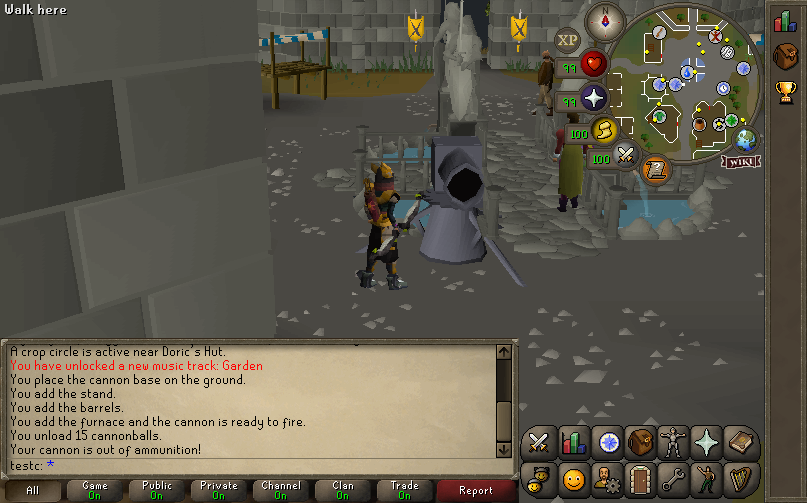
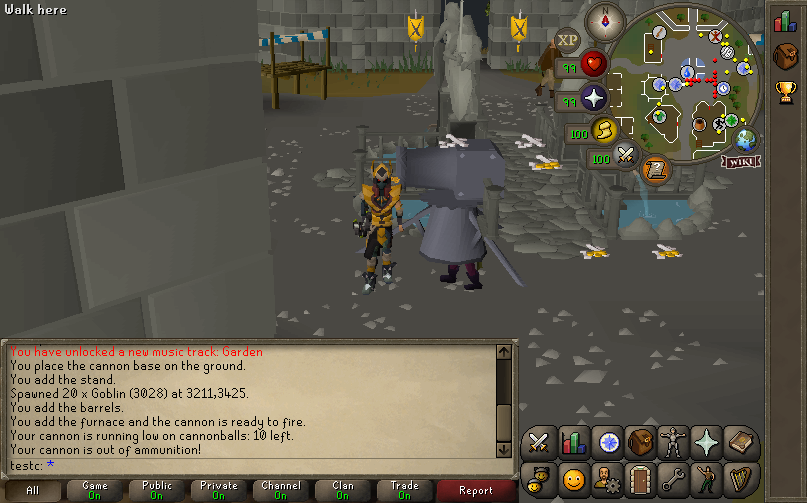
cannon: the drive could not produce the edge, so the plugin never spoke
`grep -rh PLUGIN_NOTIFY runs/` across all 307 captures returns no line from
nxt-cannon-ammo. The reading offered for that was that the lane pre-empts it:
cannon.rs2's tick timer says "Your cannon is out of ammunition!" the tick after
the count reaches zero, inside the builtin's two-tick grace, so nxt_cannon_chat
cancels its duplicate.

That is true, and it is the REPAIR rather than the defect. Two lines for one
event is the bug that grace exists to fix, and on an OSRS239 lane the correct
output at empty is silence. The plugin needed no change and got none.

What kept it silent was the DRIVE, twice over:

  * Setting 249 -- varbit 14176, the amount -- has no default, on purpose: the
    row exists so the number is the user's. The job rows wrote 14175 and 14177
    and stopped, so `threshold > 0` was false for ever. PLUGIN_PORTS.md had
    been saying this drive writes 14175=1, 14176=10, 14177=1 all along; the
    shipped rows had two of the three.

  * A drop is not a crossing. The only ammo change was loc op 3 "Empty", which
    returns all fifteen balls in ONE tick. The low notice fires on
    `previous > threshold && ammo <= threshold` and the empty branch wins at
    `ammo == 0`, so a one-tick 15 -> 0 cannot be a crossing whatever the
    threshold is.

So the count has to walk. `::spawn goblin 20` puts twenty targets inside the
cannon's eight-tile range and it fires one ball a tick through
~cannon_fire_once: 15 -> 0 over fifteen server ticks, 4000 frames for that plus
[…]

diff --git a/src/plugin/test/nxt_activities_test.c b/src/plugin/test/nxt_activities_test.c
@@ -1641,6 +1641,37 @@ main(void)
         PluginHost_ServerTick(host, ++tick);
         CHECK(g_engine.notifies == 5, "a lane known to announce it never arms again");
 
+        /*
+         * ---- AND THE LOW NOTICE STILL SPEAKS ON THAT SAME LANE ---------
+         *
+         * The latch above is narrow on purpose, and this is the check that
+         * says so. A lane announcing EMPTIES has said nothing whatever about
+         * the amount the user called low: no content anywhere sends a
+         * low-on-ammo line, so setting 249 is this builtin's alone on every
+         * lane, including the ones that pre-empt 250.
+         *
+         * Without this, a plausible reading of "the plugin is silent on every
+         * lane" is that the lane's own message pre-empts everything it has,
+         * and the obvious repair is to stand the whole builtin down once
+         * `content_announces` latches. That would leave setting 249 dead on
+         * every lane that implements a cannon -- which is every lane the
+         * builtin runs on -- while looking correctly quiet in every capture.
+         * It pre-empts ONE of the two messages.
+         *
+         * MUTATION: return early from nxt_cannon_sample when
+         *   `state->content_announces` is set. Red here, green on every other
+         *   cannon check in this file -- which is exactly how the gap hid.
+         */
+        g_engine.varbit[fake_id("varbit", NXT_VARBIT_CANNON_LOW_AMOUNT)] = 10;
+        g_engine.varp[fake_id("varp", NXT_VARP_CANNON_AMMO)] = 30;
+        PluginHost_ServerTick(host, ++tick);
+        g_engine.varp[fake_id("varp", NXT_VARP_CANNON_AMMO)] = 9;
+        PluginHost_ServerTick(host, ++tick);
+        CHECK(g_engine.notifies == 6,
+            "a lane that announces empties does not silence the low notice");
+        CHECK(strstr(g_engine.last_notify, "9 left") != NULL,
+            "and the count it names is the one that crossed the line");
+
         /* The sailing content spells the same statement with a full stop.
          * Re-registered so the latch above is not what is under test. */
         PluginHost_SetEnabled(host, p_cannon, false);
@@ -1653,7 +1684,7 @@ main(void)
         PluginHost_ServerTick(host, ++tick);
         PluginHost_ServerTick(host, ++tick);
         PluginHost_ServerTick(host, ++tick);
-        CHECK(g_engine.notifies == 5,
+        CHECK(g_engine.notifies == 6,
             "the sailing content's full stop is the same statement");
 
         /* Restore the fixture for the cost measurement below: no cannon, and
@@ -1667,7 +1698,7 @@ main(void)
         PluginHost_ServerTick(host, ++tick);
         PluginHost_ServerTick(host, ++tick);
         PluginHost_ServerTick(host, ++tick);
-        CHECK(g_engine.notifies == 5, "native null coordinate still has no ammo events");
+        CHECK(g_engine.notifies == 6, "native null coordinate still has no ammo events");
 
         /*
          * What a quiet tick COSTS.

diff --git a/tools/porcelain_gate/shots/gen_matrix.py b/tools/porcelain_gate/shots/gen_matrix.py
@@ -72,7 +72,22 @@ PLUGINS = [
     ("entity-highlighter",  "highlighter",    "'TORIRS_SIM_PLUGIN_CONFIG=60,entity-highlighter,tags,5037,6708,2880,2899,3106,3108'"),
     ("nxt-highlight",       "nxthl",          "TORIRS_SIM_MOVE_AT=600,{npc} TORIRS_SIM_HOVER={npc} TORIRS_HIGHLIGHT_DEBUG=1"),
     ("nxt-bird-nest",       "birdnest",       "TORIRS_SIM_VARBIT=450,13087,0 'TORIRS_SIM_CMD=600,dropobj bird_nest_egg_red 1'"),
-    ("nxt-cannon-ammo",     "cannon",         "'TORIRS_SIM_VARBIT=450,14175,1;452,14177,1' 'TORIRS_SIM_CMD=500,cannon' TORIRS_SIM_OPLOC=1400,3,3210,3424,6 TORIRS_MAX_FRAMES=1500"),
+    # The cannon drive has to be a WALK down the ammo count, not a drop to
+    # zero, and it has to write all THREE settings rows.
+    #
+    # It used to be 14175 + 14177, `::cannon`, and loc op 3 "Empty" -- which
+    # cannot produce one line from this plugin, and did not, in any of the 307
+    # captures.  The EMPTY notice is suppressed on purpose on an OSRS239 lane
+    # (cannon.rs2 says "Your cannon is out of ammunition!" itself, and
+    # nxt_cannon_chat drops the builtin's duplicate), so the only message left
+    # is the LOW one -- and 249, the amount (varbit 14176), has no default and
+    # was never written, while a one-tick 15 -> 0 unload has no intermediate
+    # value for a threshold to be crossed at even if it had been.
+    #
+    # Twenty goblins give the cannon a target every tick, so the count walks
+    # 15, 14, ... 0 and the crossing at 10 is real.  4000 frames covers the
+    # 4-tick assembly and fifteen fire ticks.
+    ("nxt-cannon-ammo",     "cannon",         "'TORIRS_SIM_VARBIT=450,14175,1;451,14176,10;452,14177,1' 'TORIRS_SIM_CMD=500,cannon;560,spawn goblin 20' TORIRS_MAX_FRAMES=4000"),
 ]
 
 TRACE = "TORIRS_TRACE_NATIVE_UI=1 TORIRS_DUMP_ROLES=1 TORIRS_DUMP_BOUNDS=all"

diff --git a/tools/porcelain_gate/shots/README.md b/tools/porcelain_gate/shots/README.md
@@ -398,3 +398,60 @@ coins at one gp each and two bones are worth.
 The 100M is not a rounding difference. The store held `cost * qty` in a field
 the plugin API documents as the price of ONE, so the quantity went in twice:
 10,000 * (1 * 10,000) = 100,000,000. The zoomed pair shows both halves at once.
+
+## `cannon-*` — a drive that could not produce the event it was named after
+
+Four numbers said this plugin was fine and one `grep` said it had never spoken.
+`nxt-cannon-ammo` ran on every lane, reported `enabled=1 running=1 error=0` in
+every capture, and raised no finding anywhere — and `grep -rh PLUGIN_NOTIFY
+runs/` across all 307 runs returned not one line from it.
+
+The reading that first fit was that the lane pre-empts it: `cannon.rs2`'s tick
+timer says "Your cannon is out of ammunition!" the tick after the count reaches
+zero, the builtin holds its own empty notice for two server ticks, and
+`nxt_cannon_chat` drops the duplicate when the lane speaks. All of that is true
+and **none of it is the defect** — it is the repair for a photographed
+two-lines-for-one-event bug, and on an OSRS239 lane the correct output at empty
+is silence. Believing it was the defect is how you end up "fixing" a plugin
+that is already right.
+
+The defect was in the **drive**, and it was two independent things at once:
+
+- **The threshold row was never written.** Setting 249 (`varbit 14176`,
+  `cannon_low_amount`) has no default on purpose — the row exists so the number
+  is the user's — so `threshold > 0` is false until something writes it. The
+  job rows wrote 14175 and 14177 and stopped.
+  `docs/plugin-engine/PLUGIN_PORTS.md` had been saying the drive sets
+  `14175=1, 14176=10, 14177=1` the whole time; the shipped rows had two of the
+  three. A drive and the prose about it disagreeing is worth a grep.
+- **A drop is not a crossing.** The only ammo change was loc op 3 "Empty",
+  which returns all fifteen balls in one tick. The builtin's low notice fires on
+  `previous > threshold && ammo <= threshold`, and the empty branch wins at
+  `ammo == 0`, so a one-tick 15 → 0 cannot be a crossing whatever the threshold
+  is. The count has to WALK.
+
+`::spawn goblin 20` makes it walk: twenty targets inside the cannon's eight-tile
+range, one ball a tick through `~cannon_fire_once`, 15 → 0 over fifteen server
+ticks. The chat pane now carries both halves at once —
+
+```
+Your cannon is running low on cannonballs: 10 left.   <- the plugin, at the crossing
+Your cannon is out of ammunition!                     <- the lane, at zero
+```
+
+— with nothing from the plugin after the second line, on all four CS2
+toplevels. `cannon-classic548-before.png` is the shipped drive taken with the
+same binary, the same lane, the same manifests and the same worktree, so the
+drive string is the only variable between the pair.
+
+The inventory is the other half of the measurement and is easy to miss: the
+BEFORE shot has a 15-stack of cannonballs in slot 4, because the unload put
+them back, and the AFTER has three items and no cannonballs, because they were
+fired.
+
+**The general shape, which is not about cannons.** An edge-triggered plugin
+needs a drive that produces the EDGE, and "the state it reports is reached" is
+not the same claim. Emptiness was reached in every one of those 307 captures.
+The transition the plugin watches for never happened in any of them — and a
+capture of a state a plugin does not fire on looks exactly like a capture of a
+plugin that does not work.

diff --git a/docs/plugin-engine/PLUGIN_PORTS.md b/docs/plugin-engine/PLUGIN_PORTS.md
@@ -131,6 +131,32 @@ Native OSRS captures use the existing `::cannon` debugproc (which bypasses place
 
 Inputs: frame 500 `cannon`; frame 1400 `TORIRS_SIM_OPLOC` operation 2 or 3, tile (3210,3424), loc 6. Native setting writes at frames 450–452 set varbits 14175=1, 14176=10, 14177=1. The existing fixture recorder now includes `TORIRS_SIM_OPLOC`. Enlarged captures show 8 chat/14 sidebar controls. The real rs289lc capture has 4/13 and no notification, matching its absent cannon-notification mappings. Every Lost City connection uses a newly allocated account. These screenshots do not prove native firing below the low threshold or every lifecycle/release combination.
 
+**Both paragraphs above are superseded on two points, and the second one is why
+this plugin had never emitted a line in any capture.**
+
+The "run out of cannonballs" line is no longer expected on an OSRS239 lane at
+all. `cannon.rs2`'s tick timer says "Your cannon is out of ammunition!" itself
+the tick after the count reaches zero, so the builtin holds its own empty
+notice for two server ticks and `nxt_cannon_chat` drops it when the lane
+speaks. Two messages for one event was the defect; one message is the repair.
+What the op-3 capture proves now is the SUPPRESSION, not the notice.
+
+That leaves the low-on-ammo line as the only thing this builtin says on a lane
+whose content implements the cannon -- and the shipped job rows could not
+produce it. `tools/porcelain_gate/shots/jobs/*.txt` wrote 14175 and 14177 and
+not 14176, so the threshold this paragraph already names was never set and
+`threshold > 0` was false for ever; and op 3 takes 15 to 0 in one tick, which
+has no intermediate value for a threshold to be crossed at even when it is.
+The drive is `'TORIRS_SIM_CMD=500,cannon;560,spawn goblin 20'` with
+`14176=10` and `TORIRS_MAX_FRAMES=4000` now: twenty targets make the cannon
+fire its count down one ball a tick, so the crossing at ten is real and the
+zero at the end is reached through the fire path a player uses. The sentence
+above -- "these screenshots do not prove native firing below the low
+threshold" -- was the standing note that this had never been shown; it has been
+shown on all four CS2 toplevels (`plugins/cannon-classic548.png` and its three
+siblings), each logging exactly one `PLUGIN_NOTIFY` and zero "run out of
+cannonballs".
+
 ## Live widget actions and role probe
 
 `_roleprobe.lua` now uses shared live widget bindings, visibility, bounds and checked native actions. Its old named-UI references/invocation and frame-start callback are removed. Existing `tint` and `press_report` settings remain; optional Public Friends and hidden-action checks are probe controls. It draws five cyan boundaries and follows rebinding without repairing geometry.

diff --git a/NXT_CLIENT_PLUGINS.md b/NXT_CLIENT_PLUGINS.md
@@ -241,6 +241,16 @@ The same publish is what makes **248 / 249 / 250** fire: `nxt-cannon-ammo` reads
 `rockthrower` and `ownedmcannon_temp` too, and until now no cannon ever wrote
 either.
 
+**250 no longer fires on this lane, and that is correct.** `cannon.rs2`'s tick
+timer says "Your cannon is out of ammunition!" the tick after the count reaches
+zero, so the builtin holds its own empty notice for two server ticks and drops
+it when the lane speaks -- two messages for one event was the defect. On an
+OSRS239 lane the only line this plugin has left is **249**'s, the low one, and
+nothing anywhere pre-empts that. It also has no default, on purpose: a harness
+that does not write `%varbit14176` is a harness in which the row can never
+fire, which is what kept this builtin silent in 307 captures. See
+`tools/porcelain_gate/shots/README.md`, `cannon-*`.
+
 **B. the cache implements it; it needs the right context** -- 11 rows
 
 Reclassified by measurement rather than by eye. For every row, the scripts that
